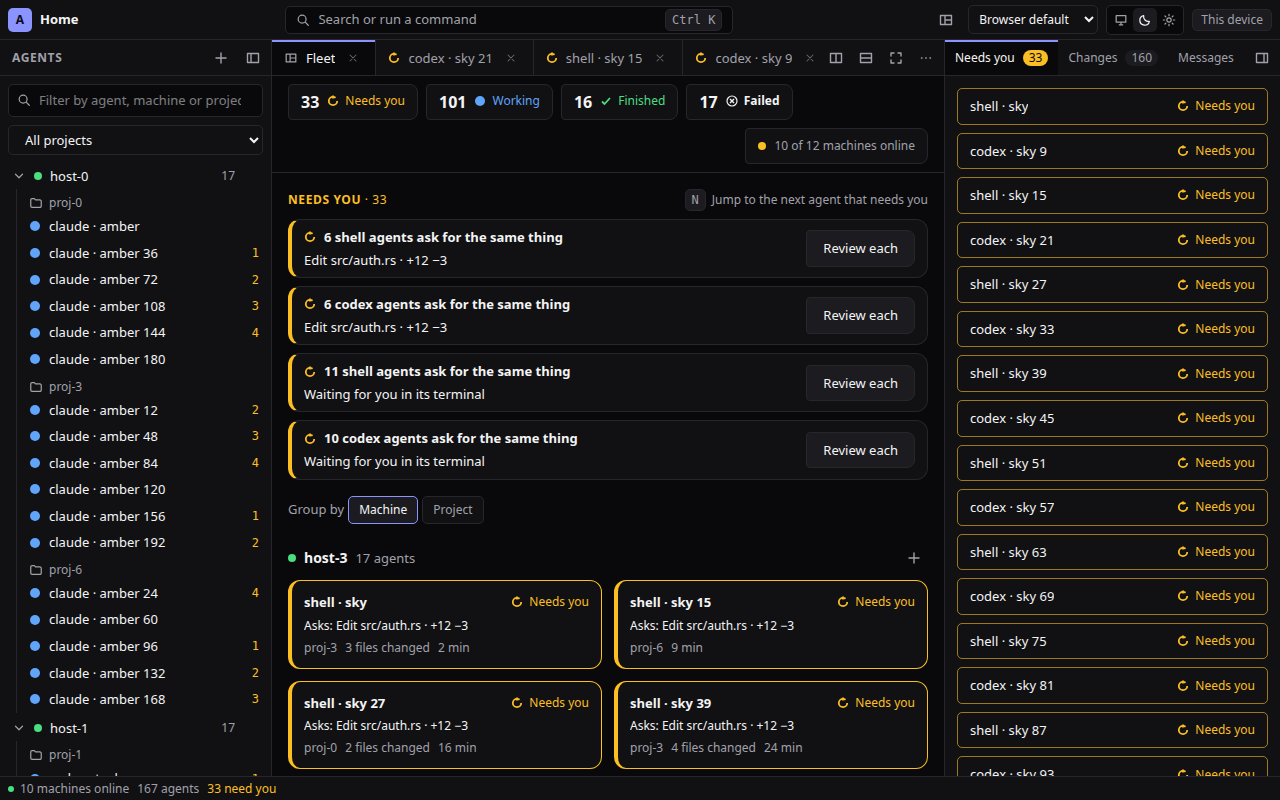
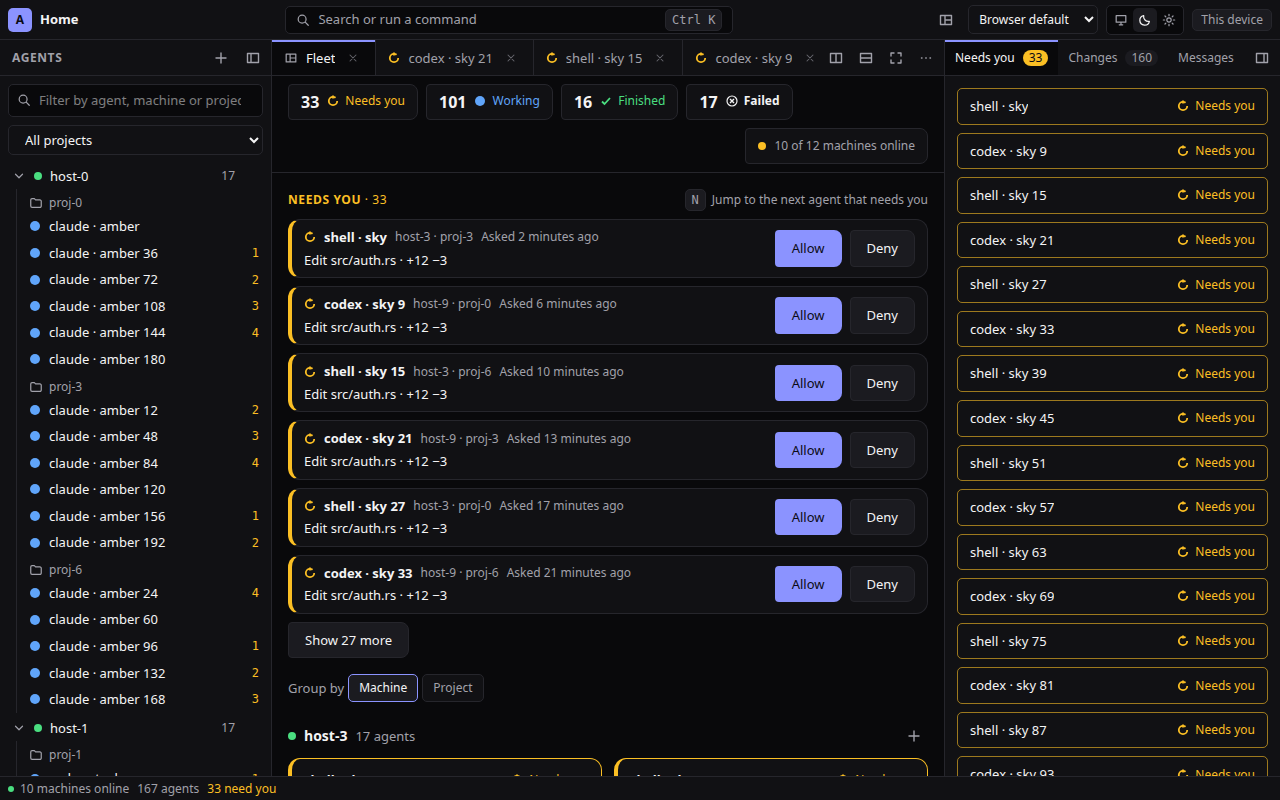
fix(web): only requests identical in everything shown collapse into one row, and never a start request

diff --git a/apps/web/src/net/fleet.ts b/apps/web/src/net/fleet.ts
@@ -79,28 +79,33 @@ export function decidableInline(a: ApprovalModel): boolean {
 // Many agents asking for the same thing are one row with a count (a stack of identical Allow buttons invites approving by reflex): each is
 // reviewed on its own. The agent's kind is the first part of its name ("claude · amber").
 export const SAME_ASK_MIN = 6;
-export type AttentionRow = { kind: 'one'; item: AttentionItem } | { kind: 'many'; key: string; items: AttentionItem[]; agentKind: string; ask: string };
-const kindOf = (name: string): string => name.split(' · ')[0] ?? name;
-function sameKey(it: AttentionItem): { key: string; agentKind: string; ask: string } {
-  if (it.kind === 'approval') {
-    const agentKind = kindOf(it.agent?.name || it.approval.agentName || '');
-    const ask = it.approval.start ? '\u0000start' : askLine(it.approval.action, it.approval.detail);
-    return { key: `${agentKind}\u0001${ask}`, agentKind, ask };
-  }
-  const agentKind = kindOf(it.agent.name);
-  return { key: `${agentKind}\u0001\u0000terminal`, agentKind, ask: '' };
+export type AttentionRow = { kind: 'one'; item: AttentionItem } | { kind: 'many'; key: string; items: AttentionItem[]; agentKind: string; machine: string; ask: string };
+const kindOf = (name: string): string => (name.split(' · ')[0] ?? name).trim();
+// What makes two rows the same: everything the row shows. The kind of request, the whole action and detail as written, the machine, the
+// project and the agent's kind. A request to start an agent is never the same as another (its folder, prompt and settings are read in the
+// full card), and neither is anything whose machine is not known (the label could not say where). `undefined`: it stands alone.
+function sameKey(it: AttentionItem): { key: string; agentKind: string; machine: string; ask: string } | undefined {
+  if (it.kind === 'approval' && it.approval.start) return undefined;
+  const agent = it.agent;
+  const machine = (agent?.machine || (it.kind === 'approval' ? it.approval.machineName : '') || '').trim();
+  if (!machine) return undefined;
+  const project = (agent ? agent.project || agent.workspace : '') || '';
+  const agentKind = kindOf(agent?.name || (it.kind === 'approval' ? it.approval.agentName : '') || '');
+  const what = it.kind === 'approval' ? `request\u0001${it.approval.action}\u0001${it.approval.detail}` : 'terminal';
+  const ask = it.kind === 'approval' ? askLine(it.approval.action, it.approval.detail) : '';
+  return { key: [what, machine, project, agentKind].join('\u0002'), agentKind, machine, ask };
 }
 export function collapseAttention(items: readonly AttentionItem[], min = SAME_ASK_MIN): AttentionRow[] {
-  const keyed = items.map((it) => ({ it, ...sameKey(it) }));
+  const keyed = items.map((it) => ({ it, same: sameKey(it) }));
   const count = new Map<string, number>();
-  for (const k of keyed) count.set(k.key, (count.get(k.key) ?? 0) + 1);
+  for (const k of keyed) if (k.same) count.set(k.same.key, (count.get(k.same.key) ?? 0) + 1);
   const out: AttentionRow[] = [];
   const seen = new Map<string, Extract<AttentionRow, { kind: 'many' }>>();
-  for (const k of keyed) {
-    if ((count.get(k.key) ?? 0) < min) { out.push({ kind: 'one', item: k.it }); continue; }
-    const g = seen.get(k.key);
-    if (g) g.items.push(k.it);
-    else { const row = { kind: 'many' as const, key: k.key, items: [k.it], agentKind: k.agentKind, ask: k.ask }; seen.set(k.key, row); out.push(row); }
+  for (const { it, same } of keyed) {
+    if (!same || (count.get(same.key) ?? 0) < min) { out.push({ kind: 'one', item: it }); continue; }
+    const g = seen.get(same.key);
+    if (g) g.items.push(it);
+    else { const row = { kind: 'many' as const, key: same.key, items: [it], agentKind: same.agentKind, machine: same.machine, ask: same.ask }; seen.set(same.key, row); out.push(row); }
   }
   return out;
 }

diff --git a/apps/web/src/net/fleet.test.ts b/apps/web/src/net/fleet.test.ts
@@ -126,6 +126,35 @@ describe('identical asks', () => {
   });
 });
 
+describe('what may collapse', () => {
+  const mk = (n: number, over: Partial<AgentTileModel> = {}) => Array.from({ length: n }, (_, i) => agent(`a${i}`, { name: `claude · c${i}`, state: 'needs-you', ...over }));
+  const asks = (fleet: AgentTileModel[], over: (i: number) => Partial<ApprovalModel> = () => ({})) => attentionList(fleet.map((a, i) => ask(`r${i}`, a.id, over(i))), fleet);
+  it('never collapses requests to start an agent, even when they look alike', () => {
+    const fleet = mk(SAME_ASK_MIN);
+    const items = attentionList(fleet.map((a, i) => ({ ...(demoStartApproval as unknown as ApprovalModel), id: `s${i}`, agentId: a.id, start: { ...demoStartApproval.start, folder: `/code/f${i % 2}` } })), fleet);
+    expect(collapseAttention(items).every((r) => r.kind === 'one')).toBe(true);
+    const same = attentionList(fleet.map((a, i) => ({ ...(demoStartApproval as unknown as ApprovalModel), id: `t${i}`, agentId: a.id })), fleet);
+    expect(collapseAttention(same)).toHaveLength(SAME_ASK_MIN); // identical folder and prompt too: each is its own row
+  });
+  it('collapses only what is identical in action, detail, machine, project and kind', () => {
+    const fleet = mk(SAME_ASK_MIN);
+    expect(collapseAttention(asks(fleet))).toHaveLength(1);
+    expect(collapseAttention(asks(fleet, (i) => ({ detail: i === 0 ? '+1 −1' : '+12 −3' }))).filter((r) => r.kind === 'many')).toEqual([]); // 5 and 1: below the threshold
+    const other = [...mk(SAME_ASK_MIN), ...mk(1, { id: 'z', name: 'claude · z', machine: 'server', machineId: 'n2' })];
+    const rows = collapseAttention(asks(other));
+    expect(rows).toHaveLength(2);
+    expect(rows.find((r) => r.kind === 'many')).toMatchObject({ machine: 'laptop' });
+    const splitProject = [...mk(3, { project: 'api' }), ...mk(3, { project: 'web' }).map((a, i) => ({ ...a, id: `b${i}` }))];
+    expect(collapseAttention(asks(splitProject)).every((r) => r.kind === 'one')).toBe(true);
+    const splitKind = [...mk(3), ...mk(3, { name: 'codex · x' }).map((a, i) => ({ ...a, id: `k${i}` }))];
+    expect(collapseAttention(asks(splitKind)).every((r) => r.kind === 'one')).toBe(true);
+  });
+  it('does not collapse what it could not say where it is on', () => {
+    const fleet = mk(SAME_ASK_MIN, { machine: '' });
+    expect(collapseAttention(asks(fleet)).every((r) => r.kind === 'one')).toBe(true);
+  });
+});
+
 describe('grouping', () => {
   const fleet = sortByUrgency([
     agent('a', { project: 'login', projectId: 'p1' }), agent('b', { state: 'needs-you', project: 'login', projectId: 'p1' }),

diff --git a/apps/web/src/components/FleetConsole.test.tsx b/apps/web/src/components/FleetConsole.test.tsx
@@ -101,10 +101,16 @@ describe('the fleet console', () => {
     expect(down).toMatch(/<button[^>]*disabled=""[^>]*aria-label="Deny: claude · a"/);
     expect(down).toContain(t('fleet-stale-no-answer'));
   });
+  it('never writes a count with an empty agent kind', () => {
+    const many = Array.from({ length: 6 }, (_, i) => agent(`w${i}`, { name: '', state: 'needs-you' }));
+    const html = console_({ fleet: many, machines });
+    expect(html).toContain('6 agents ask for the same thing on laptop');
+    expect(html).not.toContain('6  agents');
+  });
   it('collapses many identical asks into one row with a count, without Allow', () => {
     const many = Array.from({ length: 7 }, (_, i) => agent(`w${i}`, { name: `claude · c${i}`, state: 'needs-you' }));
     const html = console_({ fleet: many, machines, approvals: many.map((a, i) => ask(`r${i}`, a.id)) });
-    expect(html).toContain('7 claude agents ask for the same thing');
+    expect(html).toContain('7 claude agents ask for the same thing on laptop');
     expect(html).toContain('Review each');
     expect(html).not.toContain('>Allow<');
     expect(html.match(/class="fleet-ask /g)).toHaveLength(1);

diff --git a/apps/web/src/components/FleetConsole.tsx b/apps/web/src/components/FleetConsole.tsx
@@ -120,7 +120,7 @@ export function AttentionQueue({ items, machines, now, onOpen, onResolve, onRevi
             <li key={row.key} className="fleet-ask fleet-ask--many">
               <div className="fleet-ask__who">
                 <StateMark state="needs-you" />
-                <strong className="fleet-ask__name">{t('fleet-same-ask', { count: row.items.length, kind: row.agentKind })}</strong>
+                <strong className="fleet-ask__name">{row.agentKind ? t('fleet-same-ask', { count: row.items.length, kind: row.agentKind, machine: row.machine }) : t('fleet-same-ask-any', { count: row.items.length, machine: row.machine })}</strong>
               </div>
               <p className="fleet-ask__what fleet-ask__what--clamp" title={askOf(row.items[0] as AttentionItem)}>{askOf(row.items[0] as AttentionItem)}</p>
               <div className="fleet-ask__actions">

diff --git a/docs/ux/fleet-console.md b/docs/ux/fleet-console.md
@@ -20,7 +20,8 @@ palette's "Go home" brings it back. An empty window is the fleet console too. On
      detail, 120 characters at most in all, no structured text, no hidden character, and never a request to start an agent (it carries a
      folder, a prompt and settings). The row grows to hold such a request; it never clamps or cuts it (`scripts/e2e-fleet-rows.mjs`
      measures the longest one at 340, 420 and 820 px and in Large text). While the link is down the buttons are disabled and say why.
-   * **Six or more agents of one kind asking for the same thing are one row with a count and "Review each"**: no stack of identical Allow
+   * **Six or more agents asking for exactly the same thing are one row with a count and "Review each"** (same kind of request, same action
+     and detail, same machine, project and agent kind; a request to start an agent is never collapsed): no stack of identical Allow
      buttons. Each is then reviewed in the full card.
    * How long ago it asked is on every row or on none (when the window does not know it for some, it shows it for no one). Everything else has *Review and
      decide*, which opens the agent where the whole request is shown and answered. The row's buttons are the banner's buttons: the same
